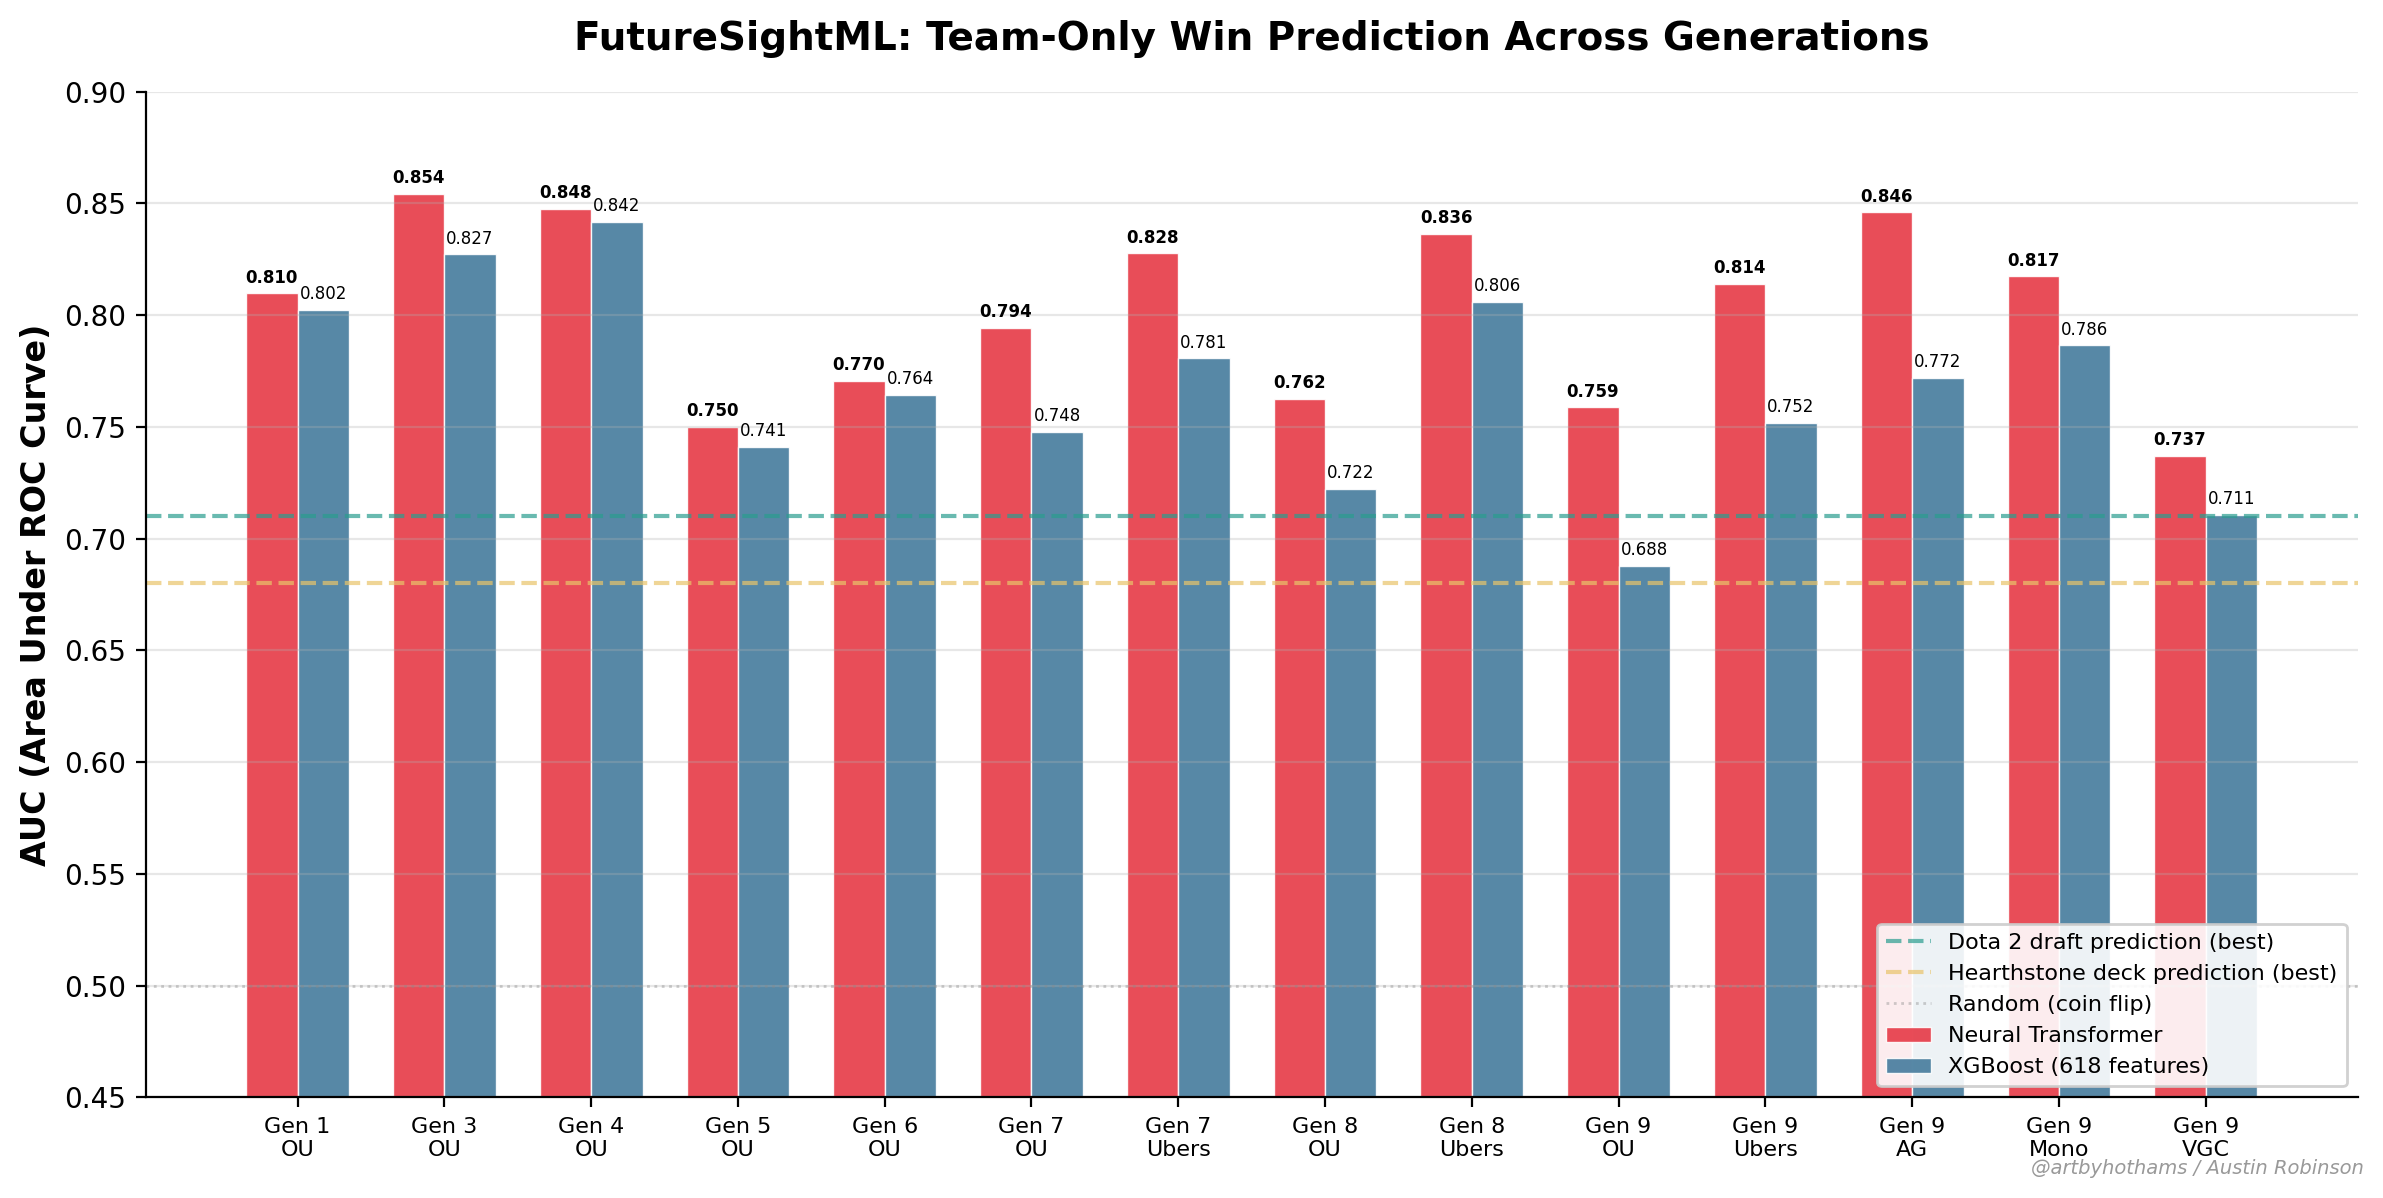
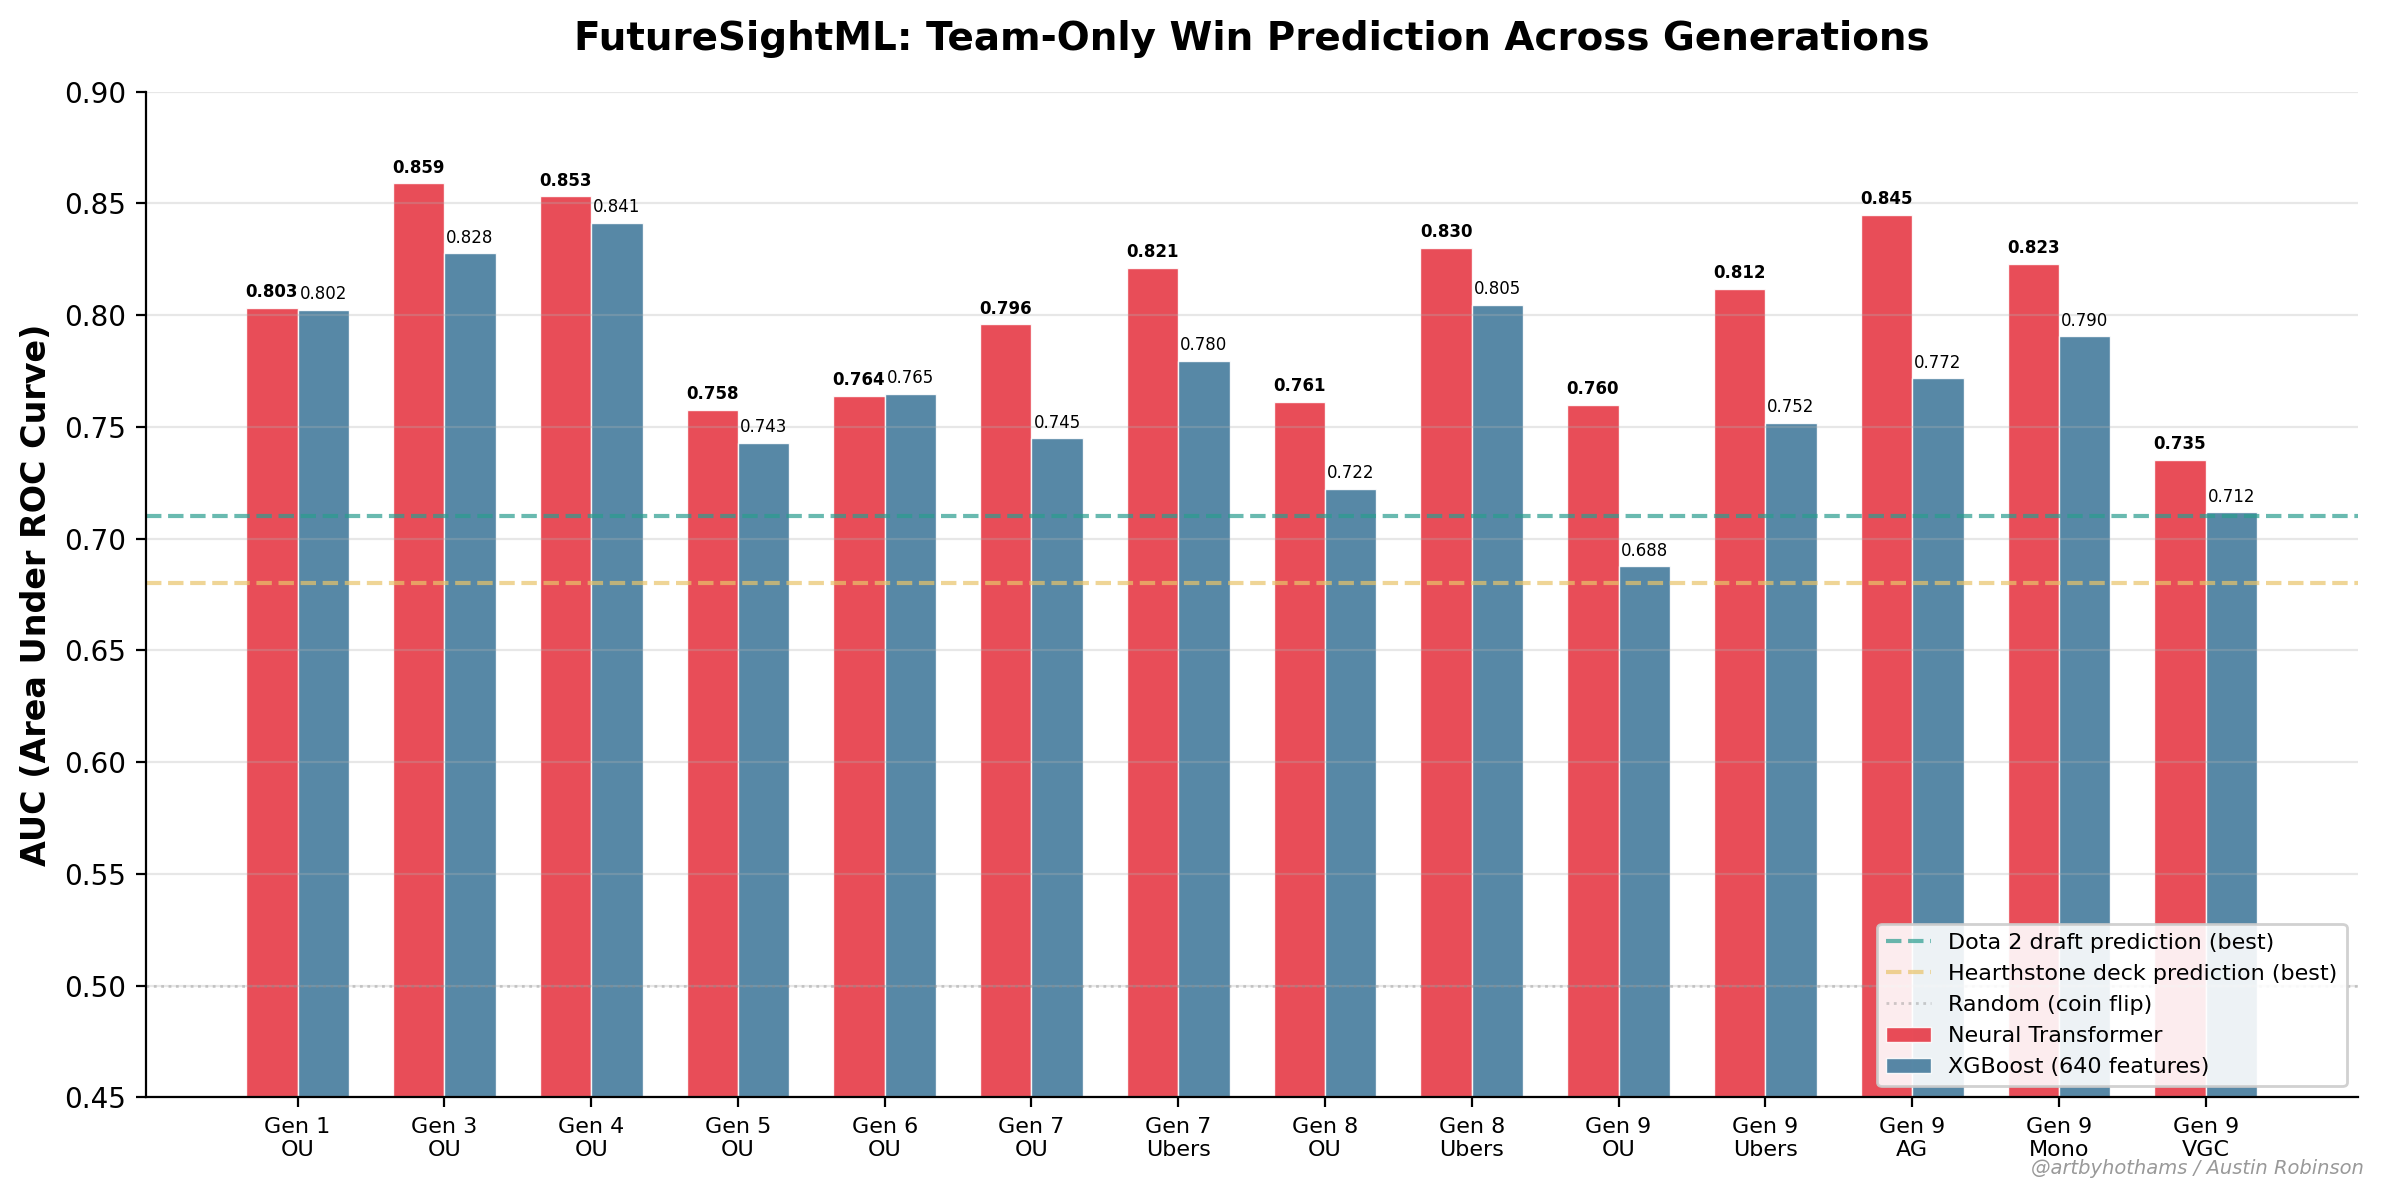
Update metrics and charts for gimmick feature training run

diff --git a/README.md b/README.md
@@ -4,9 +4,9 @@
 
 [![Python 3.11+](https://img.shields.io/badge/python-3.11+-blue.svg)](https://www.python.org/downloads/)
 [![License: MIT](https://img.shields.io/badge/license-MIT-green.svg)](LICENSE)
-[![Formats](https://img.shields.io/badge/formats-62-orange.svg)](#supported-formats)
+[![Formats](https://img.shields.io/badge/formats-61-orange.svg)](#supported-formats)
 
-FutureSightML uses a neural transformer encoder with a pairwise matchup matrix branch, combined with an XGBoost ensemble, to evaluate Pokemon teams before a single move is made. It ships pre-trained models for **62 competitive formats across Generations 1-9** and includes a retro-styled desktop GUI, a FastAPI backend, and a genetic algorithm team builder.
+FutureSightML uses a neural transformer encoder with a pairwise matchup matrix branch, combined with an XGBoost ensemble, to evaluate Pokemon teams before a single move is made. It ships pre-trained models for **61 competitive formats across Generations 1-9** and includes a retro-styled desktop GUI, a FastAPI backend, and a genetic algorithm team builder.
 
 ![FutureSightML GUI](docs/screenshot_post.png)
 
@@ -14,26 +14,25 @@ FutureSightML uses a neural transformer encoder with a pairwise matchup matrix b
 
 Pre-game win prediction from team composition alone (held-out test set, no rating leakage):
 
-Select formats shown (62 total):
+Select formats shown (61 total):
 
 | Format | Neural AUC | XGB AUC |
 |---|---|---|
-| Gen 1 OU | 0.8098 | 0.8023 |
-| Gen 3 OU | 0.8543 | 0.8272 |
-| Gen 4 OU | 0.8477 | 0.8416 |
-| Gen 5 OU | 0.7500 | 0.7412 |
-| Gen 6 OU | 0.7705 | 0.7643 |
-| Gen 7 OU | 0.7943 | 0.7479 |
-| Gen 7 Ubers | 0.8277 | 0.7807 |
-| Gen 7 1v1 | 0.8610 | 0.8708 |
-| Gen 8 OU | 0.7625 | 0.7224 |
-| Gen 8 Ubers | 0.8363 | 0.8058 |
-| Gen 8 VGC 2020 | 0.8032 | 0.7806 |
-| Gen 9 OU | 0.7588 | 0.6878 |
-| Gen 9 Ubers | 0.8140 | 0.7519 |
-| Gen 9 AG | 0.8460 | 0.7719 |
-| Gen 9 Monotype | 0.8174 | 0.7865 |
-| Gen 9 VGC 2026 | 0.7371 | 0.7106 |
+| Gen 1 OU | 0.8034 | 0.8023 |
+| Gen 3 OU | 0.8590 | 0.8276 |
+| Gen 4 OU | 0.8531 | 0.8413 |
+| Gen 5 OU | 0.7577 | 0.7429 |
+| Gen 6 OU | 0.7640 | 0.7649 |
+| Gen 7 OU | 0.7959 | 0.7449 |
+| Gen 7 Ubers | 0.8212 | 0.7797 |
+| Gen 8 OU | 0.7611 | 0.7223 |
+| Gen 8 Ubers | 0.8302 | 0.8047 |
+| Gen 8 VGC 2020 | 0.8008 | 0.7807 |
+| Gen 9 OU | 0.7598 | 0.6876 |
+| Gen 9 Ubers | 0.8119 | 0.7517 |
+| Gen 9 AG | 0.8448 | 0.7717 |
+| Gen 9 Monotype | 0.8231 | 0.7905 |
+| Gen 9 VGC 2026 | 0.7351 | 0.7117 |
 
 All numbers are team-only AUC on a held-out test set with equalized ratings (no Elo leakage). For context: Dota 2 draft prediction AUC is 0.66-0.71, Hearthstone deck prediction AUC is 0.65-0.68.
 
@@ -96,7 +95,7 @@ Everything runs locally. Nothing leaves your machine.
 
 ## Supported Formats
 
-62 formats with pre-trained models across Generations 1-9, including OU, UU, RU, NU, Ubers, VGC, Doubles OU, LC, Monotype, National Dex, 1v1, AG, and more. See `config.yaml` for the full list.
+61 formats with pre-trained models across Generations 1-9, including OU, UU, RU, NU, Ubers, VGC, Doubles OU, LC, Monotype, National Dex, 1v1, AG, and more. See `config.yaml` for the full list.
 
 ## Building the Desktop App
 
